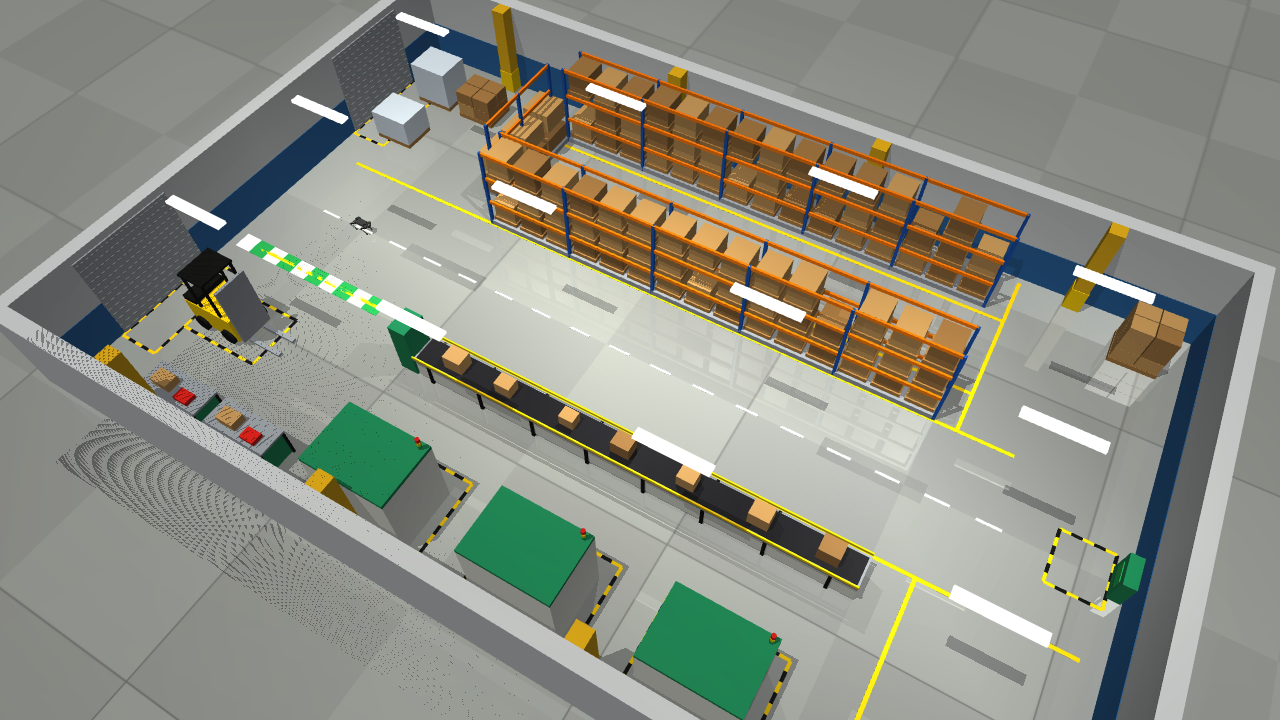
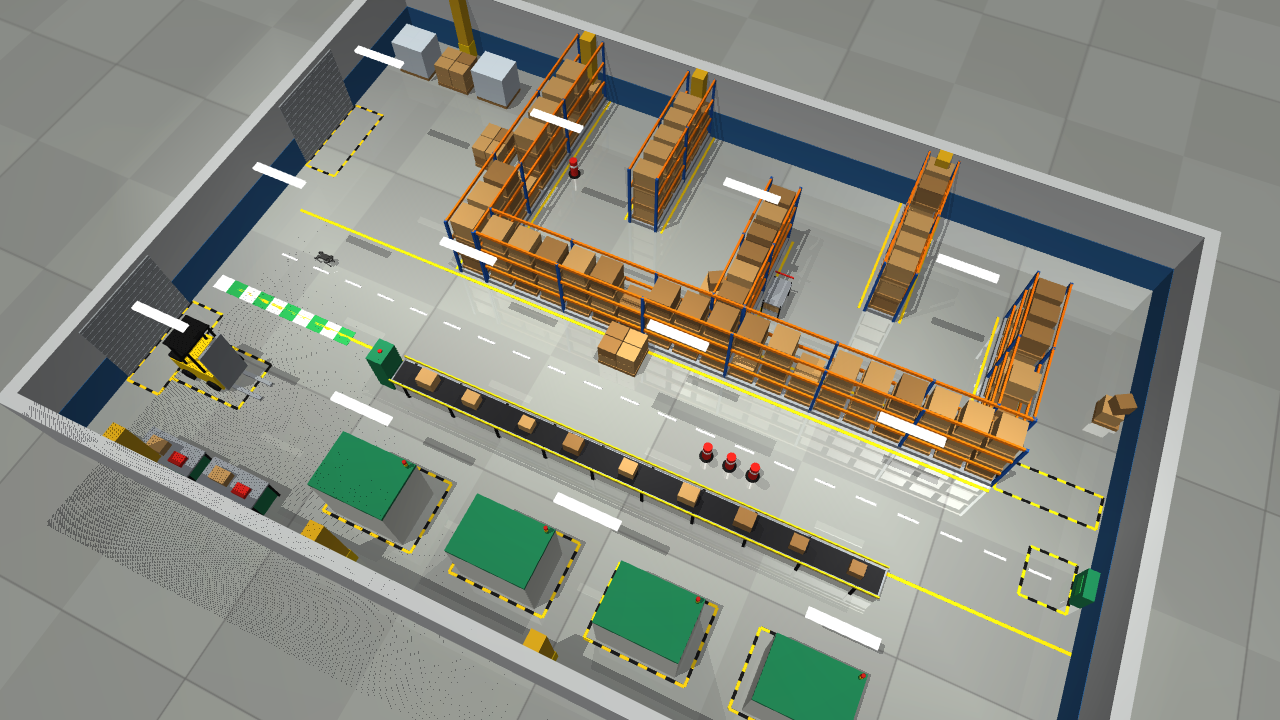
Chinese README for teachers and classmates; refresh screenshots and run evidence

diff --git a/README.md b/README.md
@@ -1,14 +1,63 @@
-# Unitree Go1 autonomous navigation (ROS 2 Jazzy / MuJoCo)
+# 基于 MuJoCo 与 ROS 2 的 Unitree Go1 四足机器人工厂自主导航
 
-The active robot in this workspace is **Unitree Go1**. Locomotion reuses the provided MuJoCo policy weights and observation normalizer; Nav2, AMCL, the workshop runtime watchdog, and RViz provide navigation, localization, safety, and visualization.
+本项目让 **Unitree Go1 四足机器人** 在 MuJoCo 仿真的工厂车间中完成自主导航：从起点出发，穿过主通道，进入蛇形货架迷宫，一路避开地图上没有的临时障碍物，最终到达指定位置。
 
-The default scene is a **factory hall** (27 m × 18 m): a serpentine pallet-rack maze (four 180° turns, 3 m aisles), unmapped clutter (cartons, a cart, cones) for local avoidance, a conveyor line, three machining cells, a forklift, loading doors, and painted aisle markings. The MuJoCo scene and the Nav2 map are generated from the same collision geometry. The earlier S-shaped maze is still available with `world:=maze`. Go2/CHAMP/ANYmal sources remain only as disabled upstream reference material.
+- **运动控制**：已训练好的强化学习行走策略（输入本体感受观测，输出 12 个关节目标角）
+- **导航**：ROS 2 Jazzy + Nav2（AMCL 定位、全局路径规划、DWB 局部规划、速度平滑、碰撞监控）
+- **仿真与可视化**：MuJoCo（真实物理与机器人画面）+ RViz（地图、激光、代价地图、规划路径）
 
-![Factory overview](docs/go1_factory_overview.png)
+![工厂全景](docs/go1_factory_overview.png)
 
-## Build and run
+| 货架迷宫（俯视） | Go1 视角：主通道与临时障碍物 |
+| --- | --- |
+| ![货架迷宫](docs/go1_factory_maze.png) | ![主通道](docs/go1_factory_aisle.png) |
 
-One-time setup:
+---
+
+## 1. 项目亮点
+
+- **工厂场景**：27 m × 18 m 厂房，包含蛇形货架迷宫（4 个 180° 转弯，通道宽 3 m）、传送带、4 台加工设备、叉车、卷帘门和地面标线。
+- **同时展示全局规划与局部避障**：场景里放了 6 处**不在导航地图上**的障碍物（托盘、锥桶、货箱、推车）。全局规划一开始会让路径穿过它们，激光发现障碍后，局部规划器绕行，全局路径随之更新。这一过程在 RViz 中可以直接看到。
+- **场景与地图同源**：Nav2 地图由 MuJoCo 场景的碰撞几何自动光栅化生成，地图与仿真世界严格一致。
+- **机器人模型经过逐位验证**：原始模型是编译好的二进制文件，无法直接编辑。我们把 Go1 还原成可编辑模型，再在外面搭建工厂。用同一个策略在新旧两个模型中运行，轨迹偏差为 **0**，保证步态完全不受影响。
+- **多层安全机制**：Nav2 碰撞监控 → 指令看门狗（0.5 s 无指令自动停车）→ 急停服务。
+- **启动更可靠**：针对 Fast DDS 偶发丢失生命周期服务应答、导致 AMCL 无法激活的问题，加入 `lifecycle_guard` 自动补全 Nav2 启动。
+
+## 2. 系统架构
+
+```mermaid
+flowchart LR
+    subgraph Nav2
+        AMCL[AMCL 定位] --> BT[BT Navigator]
+        BT --> Planner[全局规划 NavFn]
+        BT --> Controller[局部规划 DWB]
+        Controller --> Smoother[速度平滑]
+        Smoother --> CM[碰撞监控]
+    end
+    Goal[goal.py / RViz 目标] --> BT
+    CM -- /cmd_vel --> WD[workshop_runtime<br/>看门狗 + 急停]
+    WD -- /cmd_vel_safe --> Loco[go1_locomotion<br/>RL 策略 50 Hz + MuJoCo 物理]
+    Loco -- /odom /scan /joint_states --> AMCL
+    Loco -- /scan --> Controller
+    WD -- TF odom→base_link --> AMCL
+    Map[(工厂地图<br/>由场景几何生成)] --> AMCL
+    Map --> Planner
+```
+
+运动控制链路：Nav2 输出速度指令 → 看门狗过滤 → 策略网络根据速度指令与本体感受（机身速度、姿态、关节角/角速度、上一步动作）计算关节目标 → MuJoCo 位置执行器驱动关节。2D 激光在仿真中以 MuJoCo 射线检测实现（90 线，10 Hz）。
+
+## 3. 运行环境
+
+| 项目 | 版本 |
+| --- | --- |
+| 操作系统 | Ubuntu 24.04 |
+| ROS 2 | Jazzy（需安装 Nav2：`nav2_bringup` 等） |
+| Python | 3.12 |
+| MuJoCo | ≥ 3.0（已在 3.15 上测试） |
+
+## 4. 快速开始
+
+首次构建：
 
 ```bash
 cd /home/ubuntu/ros2_ws
@@ -18,63 +67,123 @@ source scripts/env.sh
 colcon build --symlink-install
 ```
 
-Start the demo:
+启动演示：
 
 ```bash
 ./scripts/start_demo.sh
 ```
 
-The MuJoCo window opens with a camera following Go1, and RViz shows the map, laser, costmaps, and planned path. As soon as Nav2 is active (a few seconds after start), Go1 automatically walks from `(0, 0)` along the main aisle, enters the rack maze at its east end, and snakes through it to `(6.5, 8.5)`. Headless test runs reached the goal in 44–50 s of navigation. Nav2 caps forward speed at `1.5 m/s` (the policy tracks 0.3–1.0 m/s reliably and has a dead zone below 0.3 m/s).
+启动后会打开 MuJoCo 窗口（相机自动跟随 Go1）和 RViz。Nav2 就绪后（约 10 秒）Go1 自动出发，终点是货架迷宫最深处 `(6.5, 8.5)`。在启动终端按 **Ctrl+C** 结束全部进程。
 
-Useful launch options:
+## 5. 演示看点
 
-```bash
-# Use the RViz "Nav2 Goal" tool to choose goals manually
-./scripts/start_demo.sh auto_goal:=false
-# Change the automatic target (map frame, yaw in radians)
-./scripts/start_demo.sh goal_x:=18.5 goal_y:=-5 goal_yaw:=-1.57
-# Previous S-shaped maze scene
-./scripts/start_demo.sh world:=maze
-# Run Nav2 headless
-./scripts/start_demo.sh mujoco_viewer:=false rviz:=false
-```
+1. **全局规划**：RViz 中的红色线是全局路径，从起点沿主通道向东，在迷宫东端入口转入，蛇形穿过 4 条货架通道。
+2. **局部避障**：主通道上的托盘和锥桶、迷宫里的货箱和推车都不在地图上。注意观察激光点出现后，局部代价地图上新增的障碍、蓝色的局部轨迹如何绕行，以及红色全局路径的重新规划。
+3. **安全停车**：运行中可以随时触发急停（见下一节），机器人立即停下，解除后继续执行任务。急停超过约 20 秒时，Nav2 的进度检查会判定任务失败，需要重新发送目标。
 
-Keep the launch terminal open; stop the full stack with Ctrl+C. In other terminals, source `scripts/env.sh` before ROS commands. The demo uses ROS domain 73 and localhost DDS discovery.
+## 6. 常用操作
 
-Good free goals in the factory: main aisle `(10, 0)`, east cross aisle `(18.5, 4.5)` / `(18.5, -5)`, picking aisle `(6…15, 4.5)`, start area `(0, 1)`.
-
-## Mission and safety interfaces
+启动参数：
 
 ```bash
-source /home/ubuntu/ros2_ws/scripts/env.sh
-ros2 run workshop_navigation goal.py 18.5 -5 --yaw -1.57 --timeout 300
-ros2 topic echo /workshop/status
-ros2 topic echo /workshop/mission
-ros2 service call /workshop/emergency_stop std_srvs/srv/SetBool '{data: true}'
-ros2 service call /workshop/emergency_stop std_srvs/srv/SetBool '{data: false}'
+./scripts/start_demo.sh auto_goal:=false                       # 不自动出发，用 RViz 的 "Nav2 Goal" 手动选目标
+./scripts/start_demo.sh goal_x:=22.5 goal_y:=0 goal_yaw:=0     # 修改自动目标（地图坐标，yaw 为弧度）
+./scripts/start_demo.sh world:=maze                            # 切换到早期的 S 形迷宫场景
+./scripts/start_demo.sh mujoco_viewer:=false rviz:=false       # 无界面运行
 ```
 
-Nav2 publishes standard `/navigate_to_pose` actions and sends velocity through the velocity smoother, collision monitor, and command watchdog before the Go1 policy. MuJoCo publishes `/odom`, `/scan`, and `/joint_states`.
+另开终端（需先 `source scripts/env.sh`）：
 
-`lifecycle_guard.py` starts with Nav2. With Fast DDS a lifecycle service reply is occasionally lost at startup, which used to leave AMCL inactive (no `map → odom`, robot never moves). After a 20 s grace period the guard drives any stalled Nav2 node to active; on a healthy start it just logs `Nav2 bringup healthy` and exits.
+```bash
+ros2 run workshop_navigation goal.py 22.5 0 --yaw 0 --timeout 300                   # 发送导航目标
+ros2 service call /workshop/emergency_stop std_srvs/srv/SetBool '{data: true}'      # 急停
+ros2 service call /workshop/emergency_stop std_srvs/srv/SetBool '{data: false}'     # 解除急停
+ros2 topic echo /workshop/status                                                    # 运行状态
+ros2 topic echo /workshop/mission                                                   # 任务进度
+```
 
-## Regenerating the scenes and maps
+可选的目标点：主通道 `(10, -0.5)`、`(22.5, 0)`，迷宫各通道 `(18.5, 4)`、`(14.5, 4)`、`(10.5, 8.5)`、`(6.5, 8.5)`，起点区 `(0, 0)`。
 
-The supplied `go1_corridor.mjb` is a compiled binary, so `build_go1_factory.py` rebuilds the Go1 robot into an editable `MjSpec` and adds the factory around it. Before saving, it checks that every robot body, joint, actuator, and contact parameter matches the supplied model, and runs the trained policy in both models (trajectory drift must be zero). Obstacles live in geom group 0 (seen by the laser and the map); floor markings and lamps live in group 1.
+本项目使用 ROS 域 73 和仅本机的 DDS 发现，不会干扰同一网络中的其他 ROS 程序。
+
+## 7. 实测结果
+
+在无界面模式下，从起点导航到迷宫终点 `(6.5, 8.5)`，规划路径长约 49.5 m：
+
+| 指标 | 结果 |
+| --- | --- |
+| 导航结果 | 2 次运行均成功（`SUCCEEDED`），未触发恢复行为 |
+| 导航用时 | 44 s / 50 s |
+| 最高速度（1 s 平滑） | 1.29 m/s（上限 1.5 m/s） |
+| 机身高度 | 0.28–0.32 m，全程无摔倒 |
+| 与临时障碍物的最近距离（机身中心） | 托盘 0.37 m，其余 0.95–1.87 m |
+
+详细记录见 [docs/evidence/go1_factory_navigation.txt](docs/evidence/go1_factory_navigation.txt)。
+
+## 8. 关键设计说明
+
+**机器人模型还原与验证。** 原始的 `go1_corridor.mjb` 是编译后的二进制模型，不能追加几何体。`build_go1_factory.py` 从编译模型中逐项读出刚体、惯量、关节、执行器、网格、关键帧和地面接触参数，重建为可编辑的 `MjSpec`，再在外面搭建工厂。保存前做两步检查：
+
+1. **静态检查**：机器人相关的全部数组与原模型一致。
+2. **动态检查**：用训练好的策略分别在新旧模型中行走 8 秒（直行和转弯各一次），两边的轨迹必须完全相同。实测偏差为 0。
+
+**几何体分组。**
+
+| 分组 | 内容 | 碰撞 | 激光可见 | 进入导航地图 |
+| --- | --- | --- | --- | --- |
+| 0 | 墙、货架、设备等固定障碍 | ✓ | ✓ | ✓ |
+| 1 | 地面标线、灯具等装饰 | ✗ | — | ✗ |
+| 2 | 临时障碍物（托盘、锥桶、货箱、推车） | ✓ | ✓ | ✗ |
+
+**速度设定。** 策略在 0.3 m/s 以下存在跟踪死区，所以 Nav2 的最小速度设为 0.28 m/s、最小角速度设为 0.6 rad/s。在平地上测试时，策略在 1.5 m/s 以内跟踪良好，直行、转弯、急停再起步都能保持稳定，因此导航上限设为 1.5 m/s。注意：1.5 m/s 已超出策略原始文档给出的 1.0 m/s 范围，只在本项目的平整地面上验证过。
+
+**迷宫尺寸。** 早期 S 形迷宫的转弯开口只有 2.1 m，Go1 会卡在掉头处。新迷宫的通道和转弯开口统一为 3.0 m，临时障碍物旁至少留 2.1 m 通行宽度。
+
+## 9. 修改场景后重新生成
 
 ```bash
 source scripts/env.sh
-.venv/bin/python go1_mujoco_locomotion/scripts/build_go1_factory.py
-.venv/bin/python src/workshop_navigation/scripts/generate_go1_factory_map.py
+.venv/bin/python go1_mujoco_locomotion/scripts/build_go1_factory.py            # 生成场景并自动验证
+.venv/bin/python src/workshop_navigation/scripts/generate_go1_factory_map.py   # 生成对应地图
 colcon build --symlink-install --packages-select go1_mujoco_locomotion workshop_navigation
 ```
 
-The maze equivalents are `build_go1_maze.py` and `generate_go1_maze_map.py`.
+场景布局写在 `build_go1_factory.py` 的 `Factory.build()` 中。修改布局后，务必同步调整 `generate_go1_factory_map.py` 中的厂房边界。
 
-## Reused components
+## 10. 目录结构
 
-- Go1 model, trained-policy files, and locomotion interface: `go1_mujoco_locomotion/`.
-- Nav2 Jazzy bringup, AMCL, DWB, velocity smoother, and collision monitor: installed ROS packages.
-- Workshop watchdog, emergency-stop service, goal/status helpers, lifecycle guard, and RViz config: `src/workshop_navigation/`.
-- Unitree Go2 and ANYmal packages are retained in `src/` for attribution/reference but marked `COLCON_IGNORE`. The local CHAMP checkout (`src/champ`, upstream https://github.com/chvmp/champ) is not tracked by this repository.
-- Run evidence: `docs/evidence/go1_factory_navigation.txt` (Go1 factory). Files named `go2_*` and `previous_anymal/` record earlier, now-inactive setups.
+```
+ros2_ws/
+├── go1_mujoco_locomotion/              # Go1 运动层（ROS 2 Python 包）
+│   ├── go1_mujoco_locomotion/locomotion_node.py   # 策略推理 + MuJoCo 仿真 + 话题发布
+│   ├── config/                         # 策略权重、观测归一化、场景 .mjb、参数
+│   └── scripts/build_go1_factory.py    # 工厂场景生成与验证
+├── src/workshop_navigation/            # 导航层（ROS 2 包）
+│   ├── launch/go1_mujoco.launch.py     # 一键启动：仿真 + Nav2 + RViz + 自动目标
+│   ├── config/go1_mujoco_nav2.yaml     # Nav2 参数
+│   ├── maps/go1_factory.{pgm,yaml}     # 由场景生成的地图
+│   └── scripts/                        # 看门狗、目标发送、生命周期守护、地图生成
+├── scripts/                            # 环境配置、启动与验证脚本
+└── docs/                               # 截图与运行记录
+```
+
+`src/` 中的 Unitree Go2、ANYmal 等目录是早期方案留下的参考代码，带 `COLCON_IGNORE`，不参与构建。
+
+## 11. 已知限制
+
+- **只能在平地上行走**：行走策略只使用本体感受，没有地形感知，实测台阶高度超过约 1.5 cm 就无法通过。
+- **碰撞模型简化**：仿真中只有四只脚参与碰撞，小腿和机身不会与障碍物发生接触。导航依靠代价地图保持安全距离。
+- **只能前进，不能横移**：策略未训练横向移动，转向依靠原地或行进中旋转。
+- **仅在仿真中验证**：策略的观测里包含机身线速度，在实机上需要额外的状态估计。
+
+## 12. 未来工作
+
+- **台阶区域**：在工厂中加入上下台阶区，与现有导航融合。需要重新训练带地形感知（高度扫描或教师-学生蒸馏）的策略，并补全腿部和机身碰撞、加入地形难度课程；导航层面要把台阶区标为可通行的限速区，并在进入时切换策略。
+- **动态障碍物**：加入移动的叉车或行人，测试动态避障。
+- **多点巡检任务**：用 waypoint follower 实现按顺序巡检多个工位。
+
+## 13. 致谢与第三方组件
+
+- Go1 机器人模型来自 [MuJoCo Menagerie](https://github.com/google-deepmind/mujoco_menagerie)（BSD-3-Clause）
+- 导航基于 [Navigation2](https://github.com/ros-navigation/navigation2)
+- 行走策略权重的来源说明见 [THIRD_PARTY.md](THIRD_PARTY.md)
